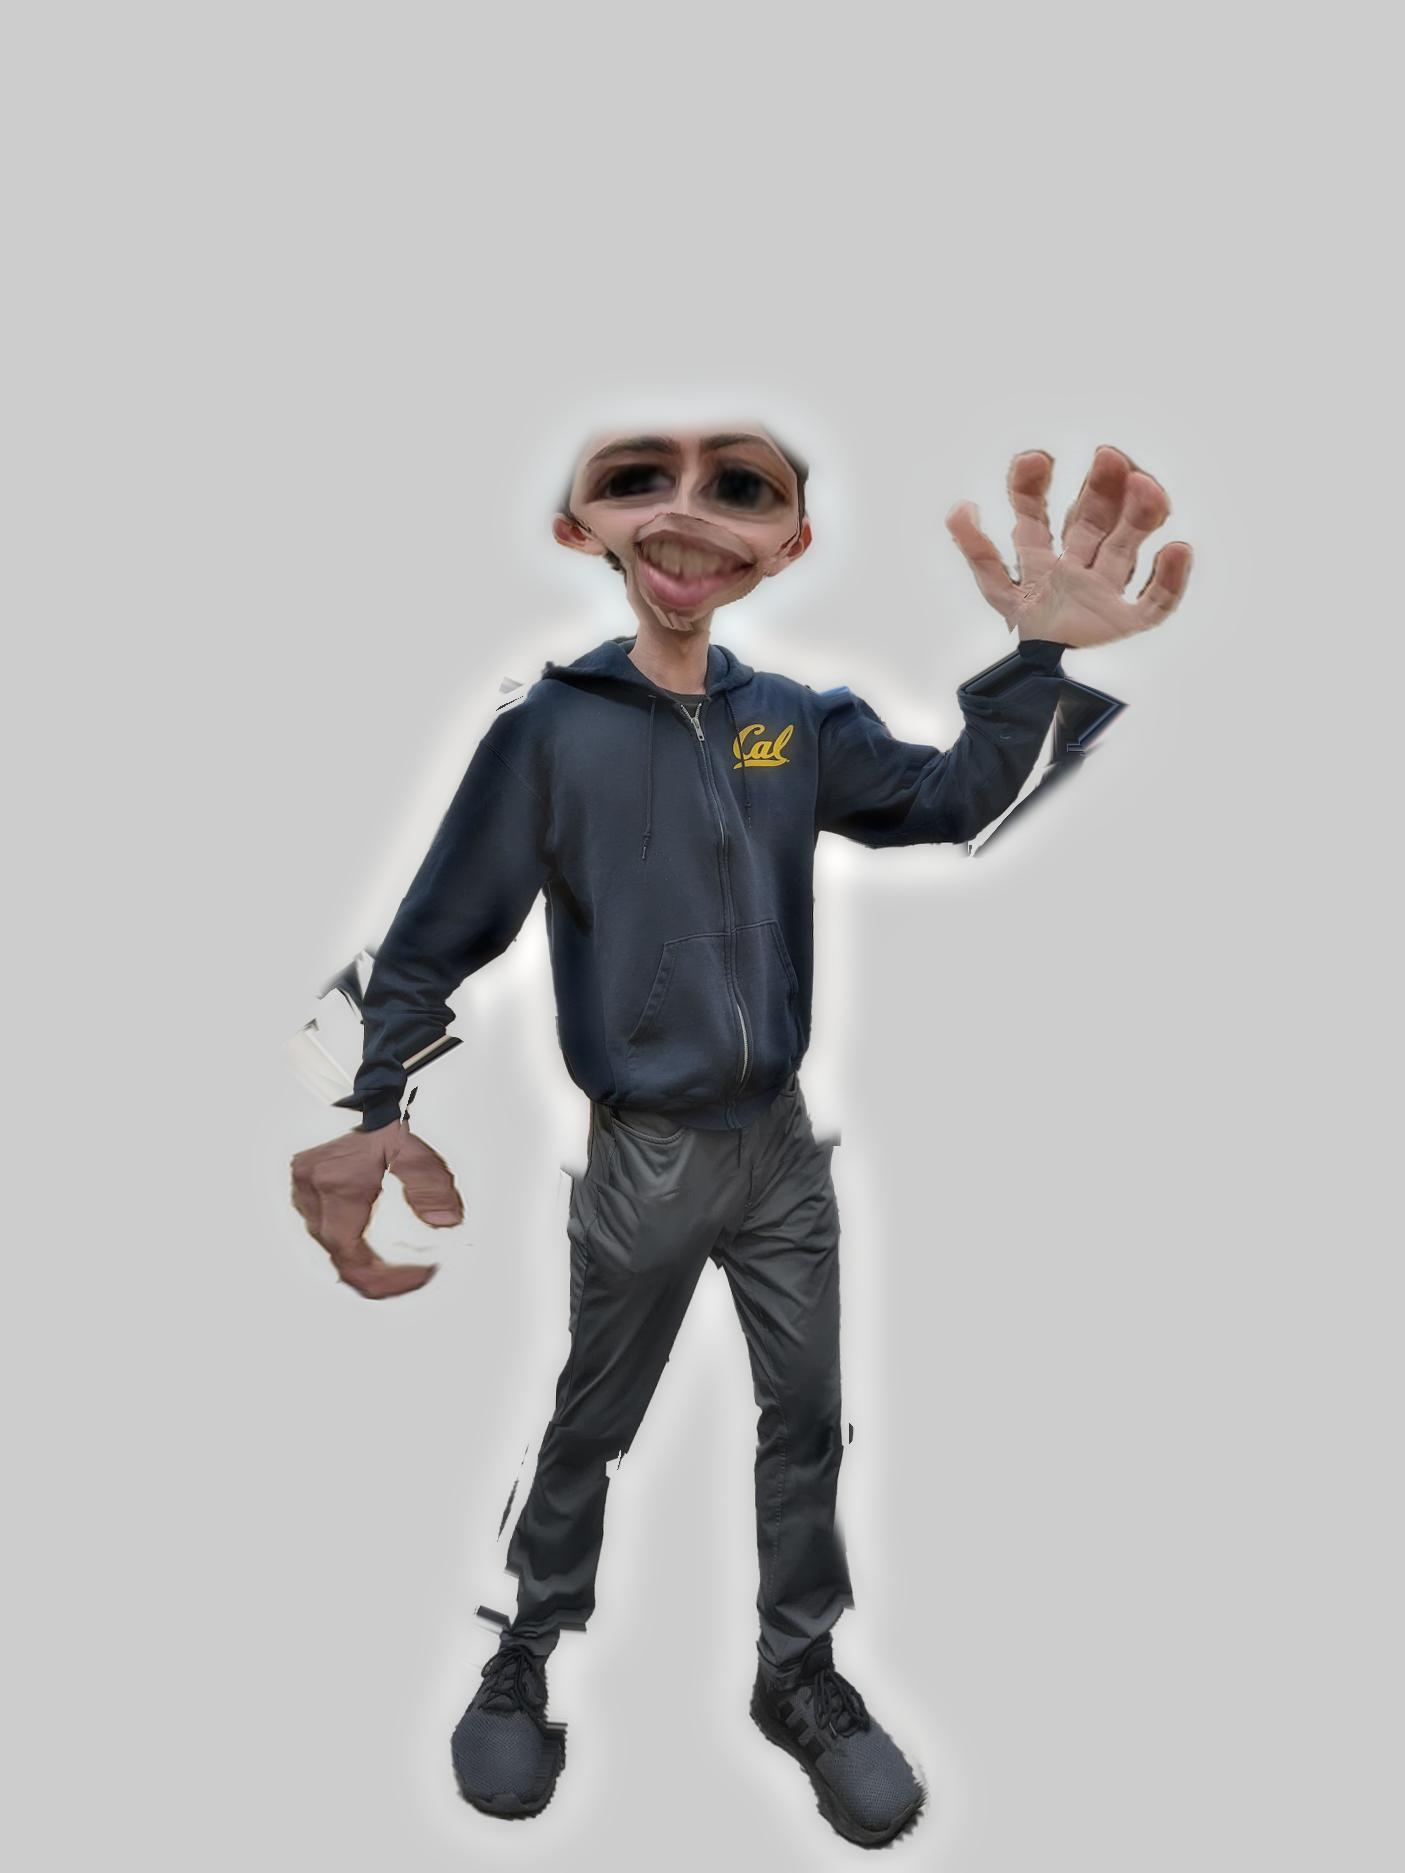
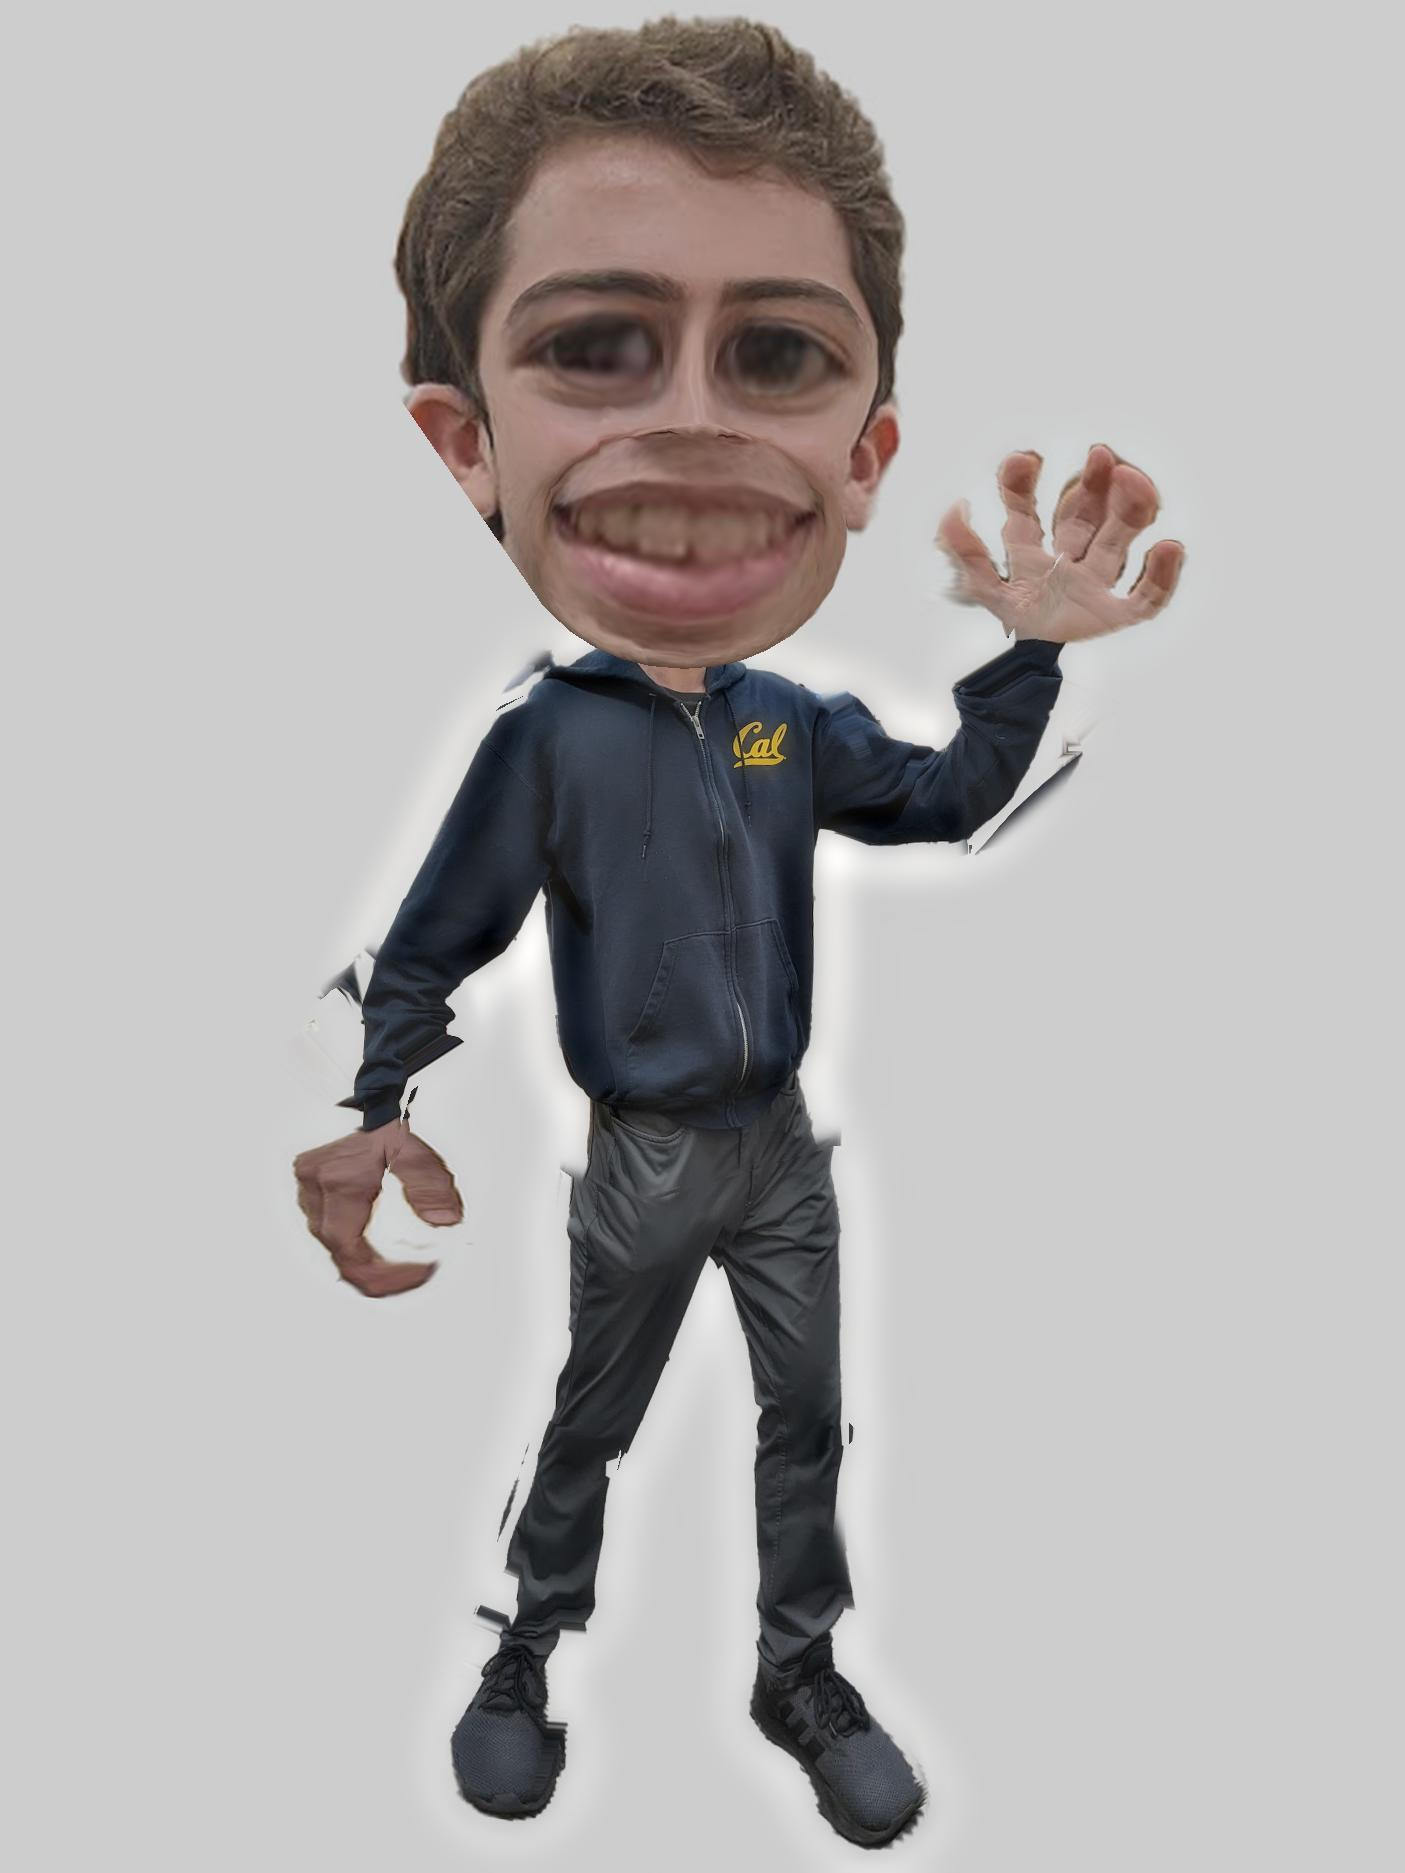
head on body

diff --git a/homunculize.py b/homunculize.py
@@ -168,7 +168,7 @@ def homunculize_parts(parts, rs, im, im_seg, final, s=11):
 	return final
 
 if __name__ == "__main__":
-	joe_name = "yarden"
+	joe_name = "olivia"
 	joe = skio.imread(f"cropped_photos/{joe_name}_cropped.jpg")/255
 	# joe = skio.imread("original_photos/tom_cruise.jpg")
 	segs = skio.imread(f"segmentations/{joe_name}_segmentation.png", as_gray=True)
@@ -200,34 +200,40 @@ if __name__ == "__main__":
 			bpt.construct_left_forearm(segs), 
 			bpt.construct_left_upper_arm(segs),
 			bpt.construct_left_thigh(segs),
-			bpt.construct_right_thigh(segs)]
-	rs = [-15 for _ in parts]
-	rs[0] = -30
-	final = homunculize_parts(parts, rs, joe, segs, final, s=8)
-	utils.show_image(final)
-
-	parts = [bpt.construct_left_thigh(segs), 
+			bpt.construct_right_thigh(segs),
 			bpt.construct_left_calf(segs),
-			bpt.construct_left_foot(segs)]
-	rs = [-15 for _ in parts]
-	rs[-1] = 20
-	final = homunculize_parts(parts, rs, joe, segs, final, s=12)
-
-	parts = [bpt.construct_right_thigh(segs), 
+			bpt.construct_left_foot(segs),
 			bpt.construct_right_calf(segs),
 			bpt.construct_right_foot(segs)]
 	rs = [-15 for _ in parts]
-	rs[-1] = 20
-	final = homunculize_parts(parts, rs, joe, segs, final, s=12)
+	rs[0] = -30
+	rs[-1] = 25
+	rs[-3] = 25
+	final = homunculize_parts(parts, rs, joe, segs, final, s=8)
+	utils.show_image(final)
+
+	# parts = [bpt.construct_left_thigh(segs), 
+	# 		bpt.construct_left_calf(segs),
+	# 		bpt.construct_left_foot(segs)]
+	# rs = [-15 for _ in parts]
+	# rs[-1] = 20
+	# final = homunculize_parts(parts, rs, joe, segs, final, s=12)
+
+	# parts = [bpt.construct_right_thigh(segs), 
+	# 		bpt.construct_right_calf(segs),
+	# 		bpt.construct_right_foot(segs)]
+	# rs = [-15 for _ in parts]
+	# rs[-1] = 20
+	# final = homunculize_parts(parts, rs, joe, segs, final, s=12)
 
 	parts = [bpt.construct_left_forearm(segs), 
 			bpt.construct_left_hand(segs)]
-	rs = [-15, 75]
+	rs = [-15, 100]
 	final = homunculize_parts(parts, rs, joe, segs, final, s=7)
 
 	parts = [bpt.construct_right_forearm(segs), 
 			bpt.construct_right_hand(segs)]
-	rs = [-15, 75]
+	rs = [-15, 100]
 	final = homunculize_parts(parts, rs, joe, segs, final, s=7)
 
 	idx = np.argwhere(full_face_warped)
